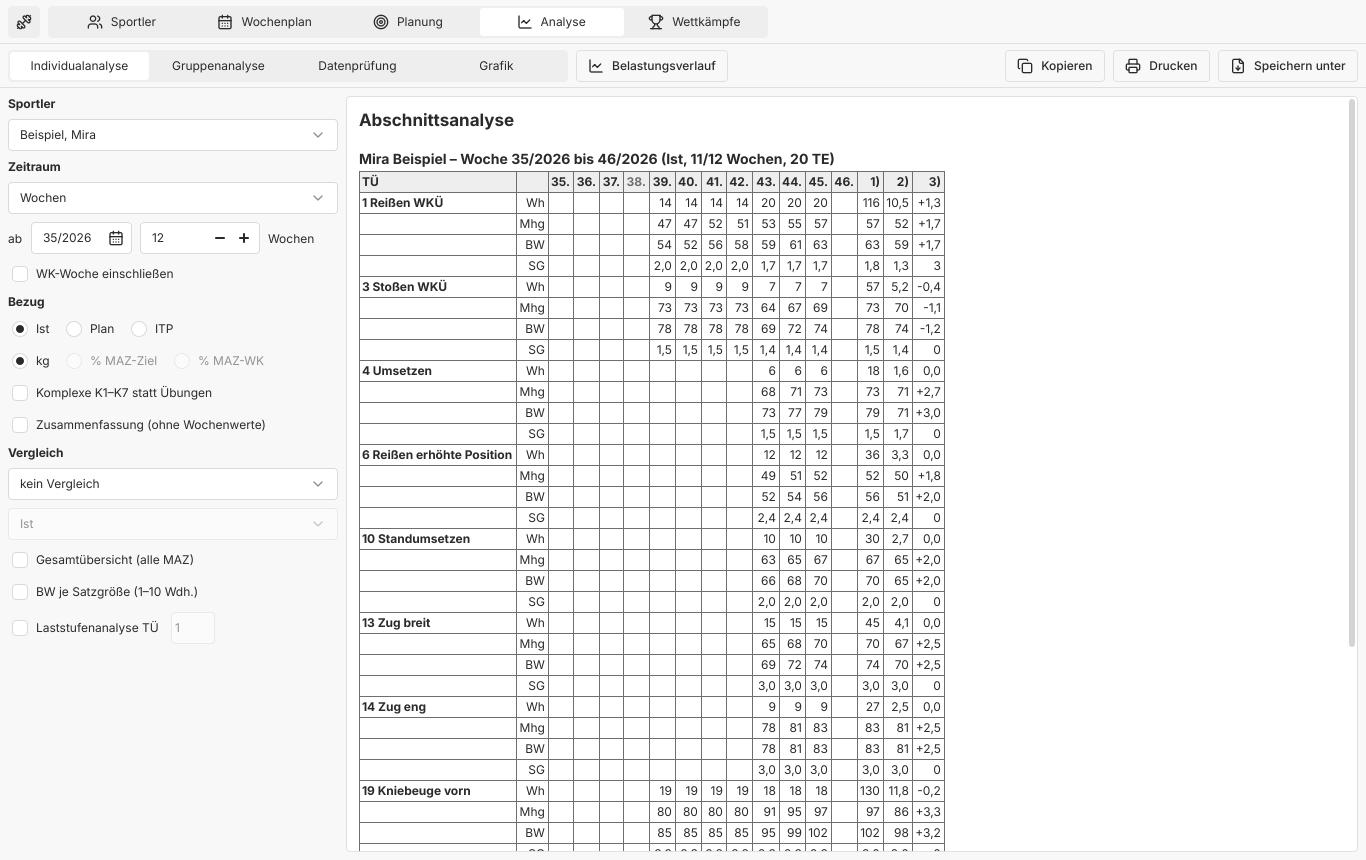
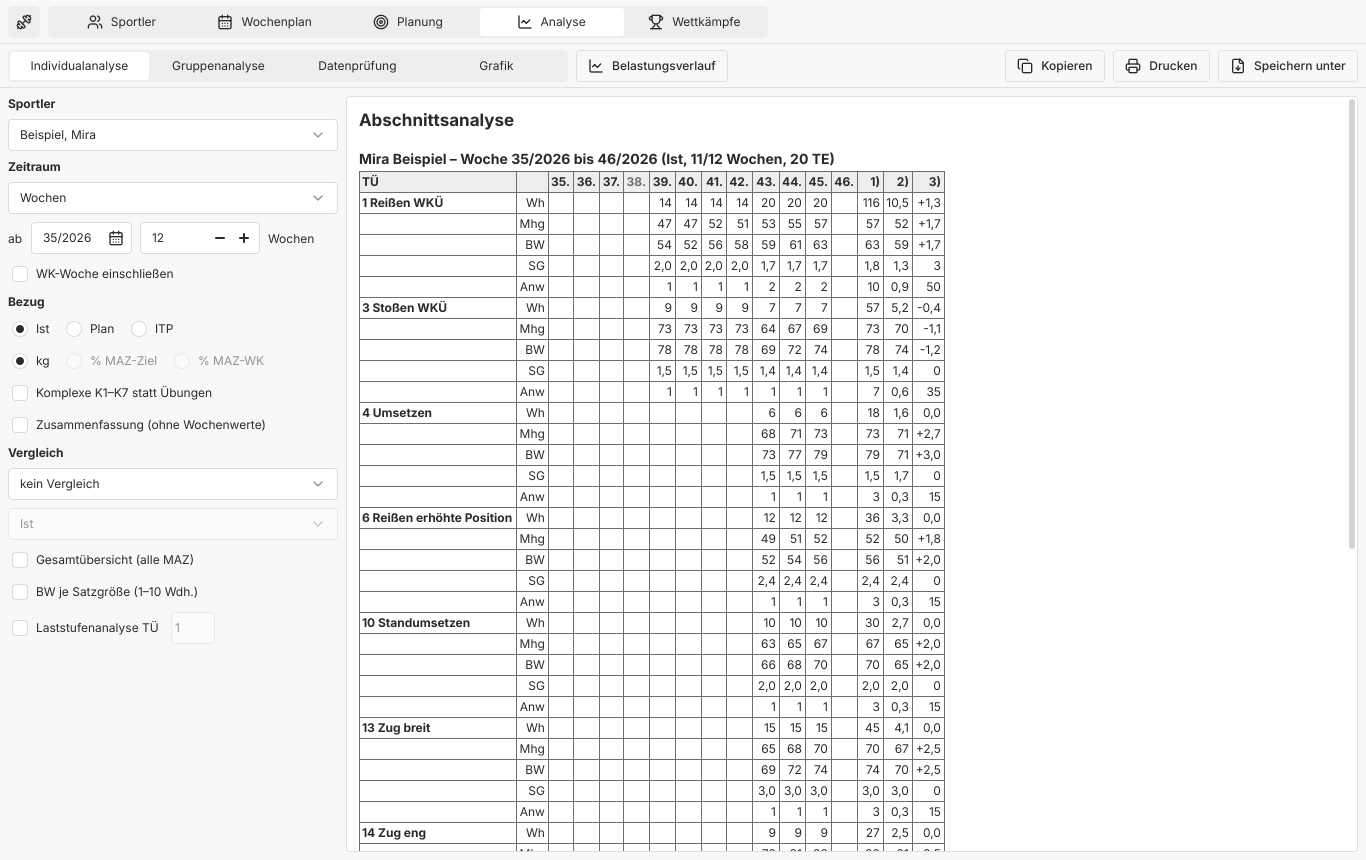
Count the sessions each exercise appears in
IDA's Abschnittsanalyse shows "Anw": in how many sessions an exercise
was trained. Ours now has an Anw line under each exercise or complex:
the sessions a week, then in all, per counted week, and as a share of
the period's sessions in percent. A complex counts a session once,
however many of its exercises are in it. The ITP has no sessions, so
it has no Anw.

The weight lines read from the database now carry their session's
number, which telling two sessions of a day apart needs.

diff --git a/tests/tst_anw.qml b/tests/tst_anw.qml
@@ -1,0 +1,66 @@
+import QtQuick
+import QtTest
+import Trainingsplaner
+
+// IDA's "Anw" in the Abschnittsanalyse: in how many sessions an exercise
+// (or a complex) is, per week, in all, per week on average and as a share
+// of all sessions
+TestCase {
+    name: "Anw"
+
+    property string athlete
+    readonly property string monday: "2032-01-05"
+
+    function initTestCase() {
+        athlete = Store.saveAthlete({ lastName: "Anwendung", firstName: "Anna", sex: 1 })
+        const lines = (ids) => ids.map(e => ({ kind: 0, exercise: e, steps: [{ kg: 50, reps: 3, sets: 2 }] }))
+        // Week 1: snatch on Monday, twice on Wednesday (sessions 1 and 2),
+        // clean & jerk with it on Monday; squats on Friday alone
+        Store.saveSession(athlete, monday, "I", { day: 1, number: 1, entries: lines([1, 3]) })
+        Store.saveSession(athlete, monday, "I", { day: 3, number: 1, entries: lines([1]) })
+        Store.saveSession(athlete, monday, "I", { day: 3, number: 2, entries: lines([1]) })
+        Store.saveSession(athlete, monday, "I", { day: 5, number: 1, entries: lines([19]) })
+        // Week 2: snatch once in two sessions
+        Store.saveSession(athlete, Store.addWeeks(monday, 1), "I", { day: 2, number: 1, entries: lines([1]) })
+        Store.saveSession(athlete, Store.addWeeks(monday, 1), "I", { day: 4, number: 1, entries: lines([19]) })
+    }
+
+    function cleanupTestCase() {
+        Store.removeAthlete(athlete)
+    }
+
+    function rows(groups, basis) {
+        const r = Analysis.individual({ athleteId: athlete, mazId: "", from: "2/2032", weeks: 2, basis: basis || "I",
+                                        reference: "kg", groups: groups, competitionWeeks: true, summary: false,
+                                        compareMazId: "", compareBasis: "I", allMaz: false, loadExercise: 0 })
+        const table = r.blocks.find(b => b.kind === "table")
+        return table ? table.rows.map(row => row.map(c => c.t)) : []
+    }
+    // The Anw line of a row: the one after its name, four lines further
+    function anwOf(table, name) {
+        const i = table.findIndex(r => r[0] === name)
+        const line = table.slice(i, i + 6).find(r => r[1] === "Anw")
+        return line ? line.slice(2) : null
+    }
+
+    function test_exercises() {
+        const t = rows(false)
+        // Weeks 2. and 3.; all 4 in 6 sessions = 2 a week, 67 %
+        compare(anwOf(t, "1 Reißen WKÜ"), ["3", "1", "4", "2,0", "67"])
+        compare(anwOf(t, "3 Stoßen WKÜ"), ["1", "", "1", "0,5", "17"])
+        compare(anwOf(t, "19 Kniebeuge vorn"), ["1", "1", "2", "1,0", "33"])
+    }
+
+    function test_complexes() {
+        // K1: snatch and clean & jerk on Monday are one session
+        compare(anwOf(rows(true), "K1"), ["3", "1", "4", "2,0", "67"])
+    }
+
+    function test_legendAndItp() {
+        const r = Analysis.individual({ athleteId: athlete, mazId: "", from: "2/2032", weeks: 2, basis: "I",
+                                        reference: "kg", groups: false, competitionWeeks: true, summary: false })
+        verify(r.blocks.some(b => b.kind === "note" && b.text.indexOf("Anw: in wie vielen Einheiten") >= 0))
+        // The ITP has no sessions
+        verify(rows(false, "T").every(r => r[1] !== "Anw"))
+    }
+}

diff --git a/qml/HelpDialog.qml b/qml/HelpDialog.qml
@@ -161,7 +161,8 @@ AppDialog {
                           + "Maus über der Zahl nennt den Grund. „Skalieren“ ändert gewählte Wochen und Werte um einen Faktor, "
                           + "z. B. 90 % nach einer Krankheit. Den Richtwert des TMK für die WH je Woche nennen die Spalten "
                           + "K1–K6 und K1-7 und zeigt der Belastungsverlauf als violette Linie.<br><br>"
-                          + "<b>Analyse:</b> Abschnittsanalyse über beliebige Wochen oder eine MAZ, auf Wunsch mit dem "
+                          + "<b>Analyse:</b> Abschnittsanalyse über beliebige Wochen oder eine MAZ (mit „Anw“: in wie vielen "
+                          + "Einheiten eine Übung vorkommt), auf Wunsch mit dem "
                           + "höchsten Gewicht je Satzgröße (1–10 Wdh.), Grafik je Übung, "
                           + "Belastungstabellen. Die Datenprüfung zeigt rot die Wochen mit mehr oder weniger Einheiten, als die "
                           + "Trainingsetappe (AGA, GLT, ABT, AST, HLT nach der AK) vorsieht. Die Tabellen stehen sofort da und folgen den Einstellungen. „Kopieren“ "

diff --git a/src/analysis.cpp b/src/analysis.cpp
@@ -5,6 +5,7 @@
 #include "database.h"
 
 #include <QMap>
+#include <QSet>
 #include <QSqlQuery>
 
 #include <algorithm>
@@ -17,6 +18,7 @@ using namespace Analysis;
 struct WeekBucket
 {
     QList<Step> steps;
+    QSet<int> sessions; // day * 10 + number, the sessions it is in
     WeekTarget target; // ITP basis
     bool hasTarget = false;
 };
@@ -98,8 +100,11 @@ Section section(const Params &p)
         const Variant v = p.basis == Basis::Plan ? Variant::Plan : Variant::Actual;
         for (const Database::WeightLine &l : Database::weightLines(p.athleteId, v, p.from, to)) {
             const int key = keyFor(l.exercise, p.groups);
-            if (key != 0)
-                buckets[key][int(p.from.daysTo(l.monday) / 7)].steps += l.steps;
+            if (key == 0)
+                continue;
+            WeekBucket &b = buckets[key][int(p.from.daysTo(l.monday) / 7)];
+            b.steps += l.steps;
+            b.sessions.insert(l.day * 10 + l.number);
         }
         for (int i = 0; i < p.weeks; ++i) {
             if (s.excluded[i])
@@ -137,12 +142,12 @@ Section section(const Params &p)
         auto scale = [&](double kg) { return has(kg) && r.percent ? kg * 100.0 / refKg : kg; };
 
         QList<Step> allSteps;
-        double whSum = 0, tonnage = 0, sets = 0;
+        double whSum = 0, tonnage = 0, sets = 0, anwSum = 0;
         QList<QPair<int, int>> attempts; // (kg, set size), one per repetition
         for (int i = 0; i < p.weeks; ++i) {
             const WeekBucket b = it.value().value(i);
             if (s.excluded[i]) {
-                r.wh.append(none); r.mhg.append(none); r.bw.append(none); r.sg.append(none);
+                r.wh.append(none); r.mhg.append(none); r.bw.append(none); r.sg.append(none); r.anw.append(none);
                 continue;
             }
             if (p.basis == Basis::Itp) {
@@ -151,6 +156,7 @@ Section section(const Params &p)
                 r.mhg.append(b.hasTarget && t.mhg > 0 ? scale(t.mhg) : none);
                 r.bw.append(b.hasTarget && t.bw > 0 ? scale(t.bw) : none);
                 r.sg.append(none);
+                r.anw.append(none);
                 if (b.hasTarget && t.wh > 0) {
                     whSum += t.wh;
                     tonnage += double(t.wh) * t.mhg;
@@ -159,7 +165,7 @@ Section section(const Params &p)
             }
             const Stats st = Steps::compute(b.steps);
             if (st.wh == 0) {
-                r.wh.append(none); r.mhg.append(none); r.bw.append(none); r.sg.append(none);
+                r.wh.append(none); r.mhg.append(none); r.bw.append(none); r.sg.append(none); r.anw.append(none);
                 continue;
             }
             int weekSets = 0;
@@ -176,6 +182,8 @@ Section section(const Params &p)
             r.mhg.append(scale(st.tonnage / st.wh));
             r.bw.append(scale(st.bw));
             r.sg.append(weekSets > 0 ? double(st.wh) / weekSets : none);
+            r.anw.append(double(b.sessions.size()));
+            anwSum += b.sessions.size();
         }
         if (whSum <= 0)
             continue;
@@ -203,6 +211,9 @@ Section section(const Params &p)
             for (const Step &x : allSteps)
                 failed += x.failed;
             r.failed = failed;
+            r.anwTotal = anwSum;
+            r.anwPerWeek = s.countedWeeks > 0 ? anwSum / s.countedWeeks : none;
+            r.anwShare = s.sessions > 0 ? anwSum * 100.0 / s.sessions : none;
         }
         s.rows.append(r);
     }

diff --git a/src/analysisapi.cpp b/src/analysisapi.cpp
@@ -114,6 +114,9 @@ QList<Cells> sectionTable(const Section &s, bool summary, bool itp)
         line(QStringLiteral("BW"), r.bw, d, r.bwMax, r.mhgTop30, r.bwTrend, d, d, 1, false);
         if (!itp)
             line(QStringLiteral("SG"), r.sg, 1, r.sgMean, r.sgTop30, r.failed, 1, 1, 0, false, false);
+        // In how many sessions it is: IDA's "Anw"
+        if (!itp && !r.anw.isEmpty())
+            line(QStringLiteral("Anw"), r.anw, 0, r.anwTotal, r.anwPerWeek, r.anwShare, 0, 1, 0, false, false);
     }
     return rows;
 }
@@ -125,7 +128,9 @@ QString legend(bool itp)
         "Mhg: 1) höchstes Wochen-Mhg; 2) Mhg des Abschnitts; 3) durchschnittlicher Zuwachs von Woche zu Woche\n"
         "BW: 1) höchstes BW; 2) Mhg der 30 schwersten Versuche; 3) durchschnittlicher Zuwachs von Woche zu Woche");
     if (!itp)
-        l += QStringLiteral("\nSG: 1) mittlere Satzgröße; 2) mittlere Satzgröße der 30 schwersten Versuche; 3) ungültige Versuche");
+        l += QStringLiteral("\nSG: 1) mittlere Satzgröße; 2) mittlere Satzgröße der 30 schwersten Versuche; 3) ungültige Versuche"
+                            "\nAnw: in wie vielen Einheiten die Übung vorkommt: 1) zusammen; 2) pro Woche; "
+                            "3) Anteil an allen Einheiten in %");
     return l;
 }
 

diff --git a/src/database.cpp b/src/database.cpp
@@ -674,7 +674,7 @@ QList<WeightLine> weightLines(const QString &athleteId, Variant variant, const Q
 {
     QList<WeightLine> list;
     QSqlQuery q(db());
-    q.prepare(QStringLiteral("SELECT monday, day, exercise, content FROM session_entries WHERE athlete_id = ?"
+    q.prepare(QStringLiteral("SELECT monday, day, exercise, content, number FROM session_entries WHERE athlete_id = ?"
                              " AND variant = ? AND kind = 0 AND exercise > 0 AND monday BETWEEN ? AND ?"
                              " ORDER BY monday, day, number, position"));
     q.addBindValue(athleteId);
@@ -689,6 +689,7 @@ QList<WeightLine> weightLines(const QString &athleteId, Variant variant, const Q
         l.day = q.value(1).toInt();
         l.exercise = q.value(2).toInt();
         l.steps = Steps::parse(q.value(3).toString());
+        l.number = q.value(4).toInt();
         if (!l.steps.isEmpty())
             list.append(l);
     }

diff --git a/src/analysis.h b/src/analysis.h
@@ -37,6 +37,7 @@ struct Row
     int key = 0;      // exercise, or -1..-7 for K1..K7
     QString name;
     QList<double> wh, mhg, bw, sg; // per week, none = no value
+    QList<double> anw;             // sessions with the row a week (IDA's "Anw")
     // Summaries, as the old program's legend:
     // WH:  total, per week, trend per week
     // MHG: best week, period MHG, trend per week
@@ -46,6 +47,8 @@ struct Row
     double mhgMax = none, mhgPeriod = none, mhgTrend = none;
     double bwMax = none, mhgTop30 = none, bwTrend = none;
     double sgMean = none, sgTop30 = none, failed = none;
+    // Anw: sessions with it, per week, share of all sessions in percent
+    double anwTotal = none, anwPerWeek = none, anwShare = none;
     bool percent = false; // MHG/BW values in percent of the reference
 };
 

diff --git a/src/database.h b/src/database.h
@@ -120,6 +120,7 @@ struct WeightLine
 {
     QDate monday;
     int day = 1;
+    int number = 1; // the session of the day
     int exercise = 0;
     QList<Step> steps;
 };

diff --git a/docs/HANDBUCH.md b/docs/HANDBUCH.md
@@ -473,13 +473,18 @@ links.
 ![Individualanalyse](handbuch/bilder/16-analyse-individual.png)
 
 Die **Abschnittsanalyse** eines Sportlers: je Übung WH, Mhg, BW und SG
-Woche für Woche, rechts Summe, Durchschnitt und Entwicklung. Als
+Woche für Woche, rechts Summe, Durchschnitt und Entwicklung. Die Zeile
+**Anw** zählt, in wie vielen Trainingseinheiten die Übung vorkommt: je
+Woche, zusammen, pro Woche und als Anteil an allen Einheiten (in %). Bei
+den Komplexen K1–K7 zählt eine Einheit einmal, auch wenn mehrere Übungen
+des Komplexes darin stehen. Als
 Zeitraum lassen sich Wochen oder eine MAZ wählen. Als Bezug Ist, Plan
 oder ITP, in kg oder in % des Ziels. Dazu wahlweise ein Vergleich mit
 einem anderen Zeitraum.
 
 > **Beispiel:** Mira, 12 Wochen ab 35/2026, Ist: Reißen WKÜ mit 14 WH in
-> den Wochen 39–42 und 20 WH in den Wochen 43–45, zusammen 116 WH.
+> den Wochen 39–42 und 20 WH in den Wochen 43–45, zusammen 116 WH. Es
+> kommt in 10 der 20 Einheiten vor (Anw 10, 0,9 pro Woche, 50 %).
 > Woche 38 ist grau: Es ist die Woche eines Wettkampfs (15.09.), die nur
 > mit *WK-Woche einschließen* mitzählt. Deshalb steht oben „11/12 Wochen“.
 

diff --git a/docs/RESEARCH-IDA-RTK.md b/docs/RESEARCH-IDA-RTK.md
@@ -142,7 +142,7 @@ M days, L a week or more.
 |---|---|---|---|
 | 18 | **Best weight per set size** (BW at 1…10 reps) per exercise over a period (done, November 2026: "BW je Satzgröße" in the Abschnittsanalyse, Ist or Plan, competition weeks as the main table, steps with only failed attempts left out) | IDA p.18 | S–M |
 | 19 | "Min zum WoBW": count only reps at or above X % of the week's best | IDA p.18 | M |
-| 20 | "Anw": in how many sessions a week an exercise appears | IDA p.18 | S |
+| 20 | "Anw": in how many sessions a week an exercise appears (done, November 2026: an Anw line per exercise or complex in the Abschnittsanalyse, per week, in all, per week and as a share of all sessions; Ist and Plan) | IDA p.18 | S |
 | 21 | Quick ranges (1/2/4 weeks, 1/3/6 months); Plan and Ist in one chart | IDA p.19 | S |
 | 22 | Compare one athlete with the **average of a group** | IDA p.19 | M |
 | 23 | **Development curve**: a Gompertz fit of the total over age in the competition chart, one to two years ahead with a band; the same for body weight against the class limits | Sandau 2018 | S–M |
